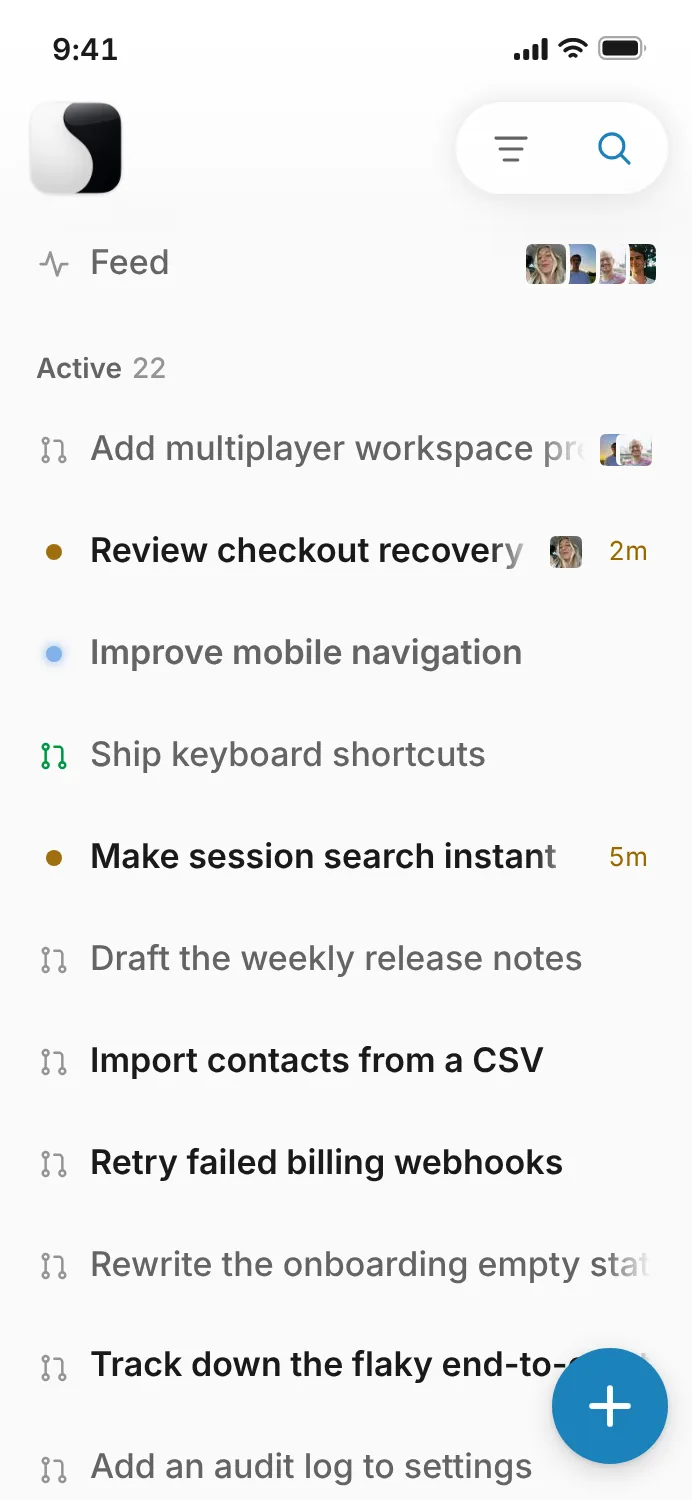
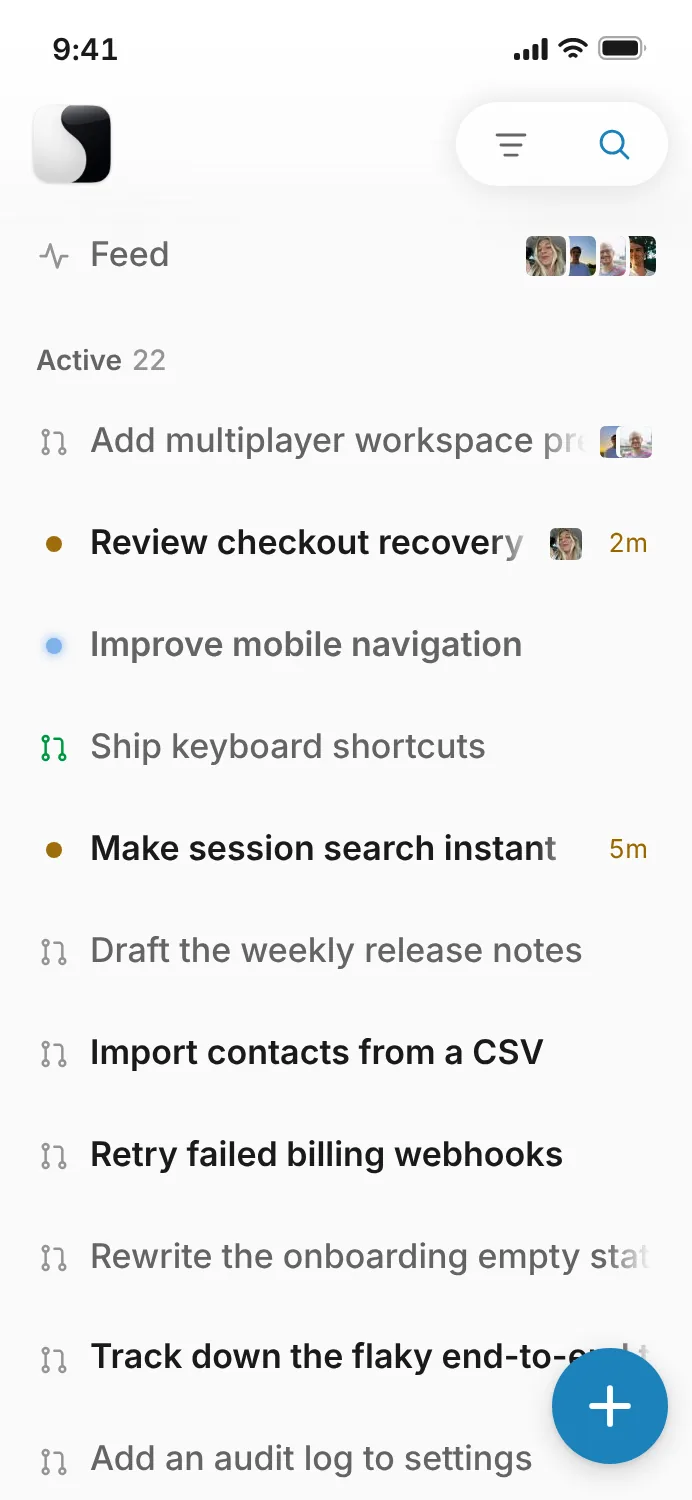
Shrink the phone top bar and its mark

diff --git a/packages/core/opensession-server/src/frontend/lib/app-header-classes.ts b/packages/core/opensession-server/src/frontend/lib/app-header-classes.ts
@@ -198,25 +198,25 @@ export const APP_BRAND = "app-brand flex min-w-0 items-center gap-0.5";
  * The mark, as the Settings trigger. `order-1` seats it before the update pill
  * (which claims `order-3`); the 4px indent lines the MARK up with the list's
  * 16px text column below rather than with the bar's own 12px edge. The button
- * sits 4px in because the mark starts at the button's left edge. Its 56px image
- * overhangs the 44px button by 6px a side against the transparent margin baked
+ * sits 4px in because the mark starts at the button's left edge. Its 48px image
+ * overhangs the 40px button by 4px a side against the transparent margin baked
  * into the untrimmed asset.
  */
 export const APP_LOGO_BUTTON =
-	"relative inline-flex size-11 items-center justify-center rounded-control " +
+	"relative inline-flex size-10 items-center justify-center rounded-control " +
 	"border-none bg-transparent p-0 text-inherit cursor-pointer " +
 	"[-webkit-tap-highlight-color:transparent] active:bg-hover " +
 	"phone:order-1 phone:ml-1";
 
 /**
- * Sized so the MARK measures ~45px, close to the 44px bar buttons opposite it.
- * Those buttons are outlines around air and this is solid ink, so exact visual
- * equality would read mark-heavy. The box runs bigger than the mark because,
- * unlike a repo icon, this asset is not trimmed. It carries its artwork on 80%
- * of its canvas, so 56 × 0.8 ≈ 45px of ink. The overflow is transparent margin
- * and touches nothing.
+ * Sized so the MARK measures ~38px, a step under the 40px bar buttons opposite
+ * it. Those buttons are outlines around air and this is solid ink, so exact
+ * visual equality would read mark-heavy. The box runs bigger than the mark
+ * because, unlike a repo icon, this asset is not trimmed. It carries its
+ * artwork on 80% of its canvas, so 48 × 0.8 ≈ 38px of ink. The overflow is
+ * transparent margin and touches nothing.
  */
-export const APP_LOGO_IMAGE = "block size-14";
+export const APP_LOGO_IMAGE = "block size-12";
 
 /**
  * Live connection dot on the avatar's corner (the desktop sidebar's chrome
@@ -428,21 +428,25 @@ export const APP_HEADER_ACTIONS_DETAIL =
 	`${HEADER_ACTIONS_BASE} phone:ml-2.5 phone:flex-none phone:gap-2.5`;
 
 /**
- * A segment of the grouped bar control (see `APP_HEADER_ACTIONS`): 44pt tall
+ * A segment of the grouped bar control (see `APP_HEADER_ACTIONS`): 40pt tall
  * and wider than it is high, with no chrome of its own. The capsule around it
  * draws the edge, fill and shadow. The glyph is thickened past its 1.5 stroke
  * because iOS nav-bar glyphs are bold and it reads spindly at this size
- * otherwise. `--header-h` in base.css leaves this control 44px below the bar's
+ * otherwise. `--header-h` in base.css leaves this control 40px below the bar's
  * 8px top inset. Move the two together.
+ *
+ * 40 rather than 44: the segment is wider than it is tall, so the target the
+ * thumb actually meets stays past 44pt across, and the bar reads as chrome
+ * rather than as the tallest thing on the screen.
  */
 const MOBILE_BAR_SEGMENT =
-	"phone:relative phone:inline-flex phone:h-11 phone:w-13 phone:shrink-0 " +
+	"phone:relative phone:inline-flex phone:h-10 phone:w-13 phone:shrink-0 " +
 	"phone:items-center phone:justify-center phone:rounded-none " +
 	"phone:border-none phone:bg-transparent phone:p-0 phone:shadow-none " +
 	"phone:cursor-pointer phone:touch-manipulation " +
 	"phone:[-webkit-tap-highlight-color:transparent] " +
 	"phone:active:opacity-35 phone:active:duration-0 " +
-	"phone:[&_svg]:size-[25px] phone:[&_svg]:[stroke-width:2]";
+	"phone:[&_svg]:size-[23px] phone:[&_svg]:[stroke-width:2]";
 
 /**
  * Search — the trailing half of the pair. No rule divides it from the filter:

diff --git a/packages/core/opensession-server/src/frontend/styles/base.css b/packages/core/opensession-server/src/frontend/styles/base.css
@@ -431,9 +431,9 @@
 	--desktop-header-h: 48px;
 	/* Header height grows by the iOS status-bar inset when installed as a PWA
      (black-translucent draws the webview under the clock/notch). The bar spends
-     8px on its own top pad, leaving 44px for MOBILE_BAR_SEGMENT and the settings
+     8px on its own top pad, leaving 40px for MOBILE_BAR_SEGMENT and the settings
      mark in lib/app-header-classes.ts. Move the two together. */
-	--header-h: calc(52px + env(safe-area-inset-top, 0px));
+	--header-h: calc(48px + env(safe-area-inset-top, 0px));
 }
 
 /* Above the phone breakpoint the top bar isn't rendered at all, so nothing is
